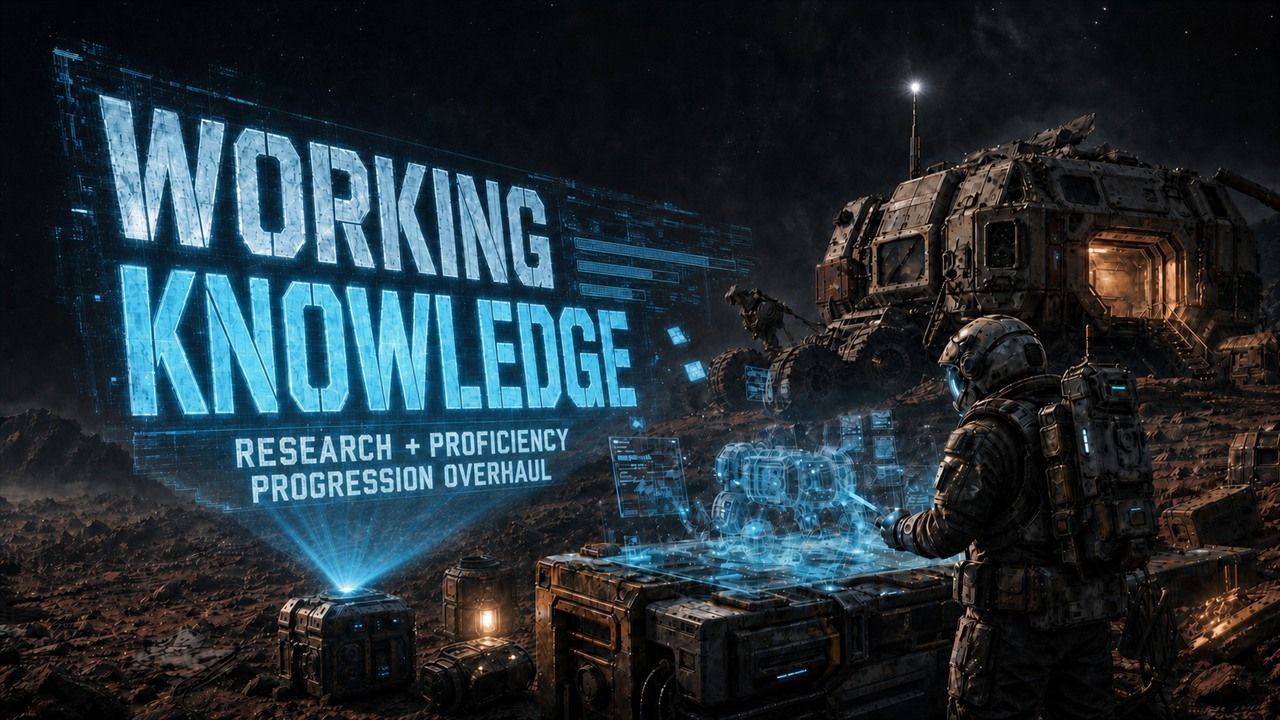
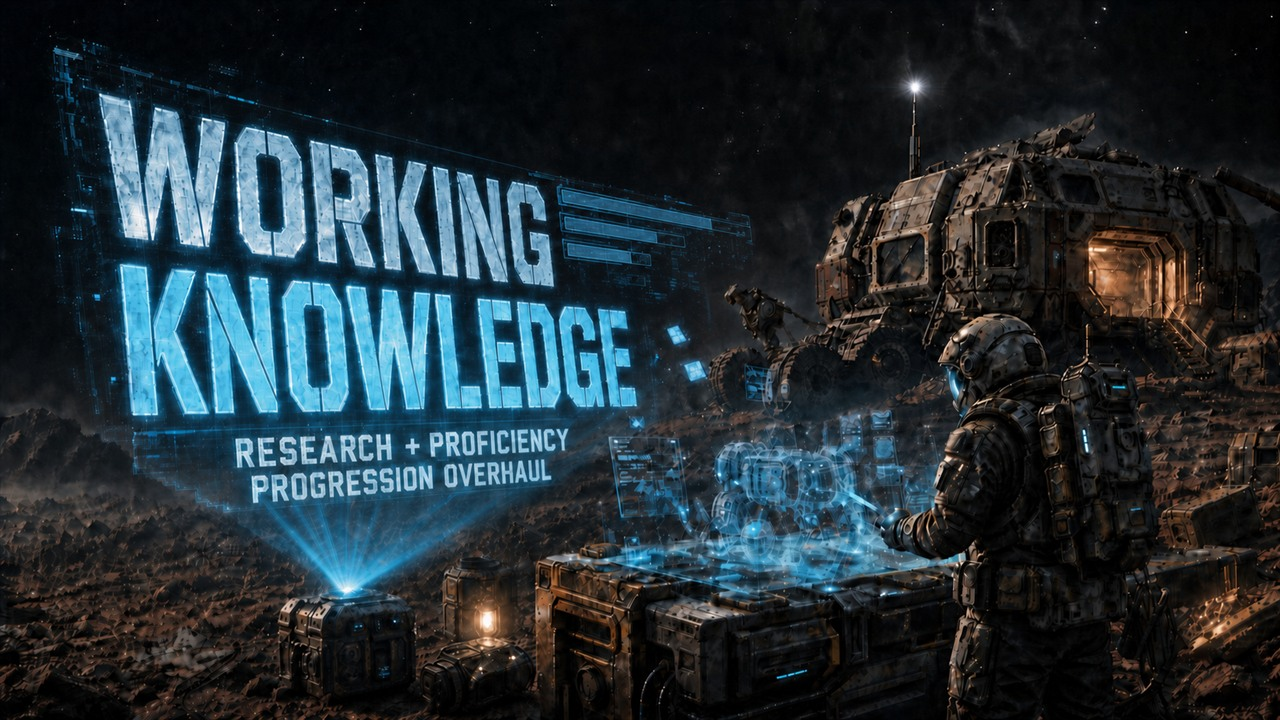
art: align thumbnail proficiency graph

diff --git a/docs/WorkingKnowledge/changelog.md b/docs/WorkingKnowledge/changelog.md
@@ -27,7 +27,7 @@ Kept complete vanilla variant sets in one schematic family. In particular, the S
 
 Regenerated vanilla research bindings, hidden unlockers, exact Data Schematics, the runtime catalog, block-variant overrides, radial-menu data, and balance audits from the current 1.210 game definitions.
 
-Replaced the Workshop thumbnail with cohesive field-engineering key art. The title is now an in-world holographic research projection instead of a flat text panel, with an integrated descriptor identifying the mod as a Research and Proficiency progression overhaul. The final composition lowers the projector and enlarges the title while retaining breathing room around the atmospheric engineer, research table, and habitat scene. A faint three-level proficiency graph is woven into the projection's existing technical scribbles without competing with the title.
+Replaced the Workshop thumbnail with cohesive field-engineering key art. The title is now an in-world holographic research projection instead of a flat text panel, with an integrated descriptor identifying the mod as a Research and Proficiency progression overhaul. The final composition lowers the projector and enlarges the title while retaining breathing room around the atmospheric engineer, research table, and habitat scene. A faint three-level proficiency graph continues the `WORKING` row, matching the projection's perspective and blending into its existing technical scribbles without competing with the title.
 
 ## 0.13.0 - Extensible Schematic Groups
 
